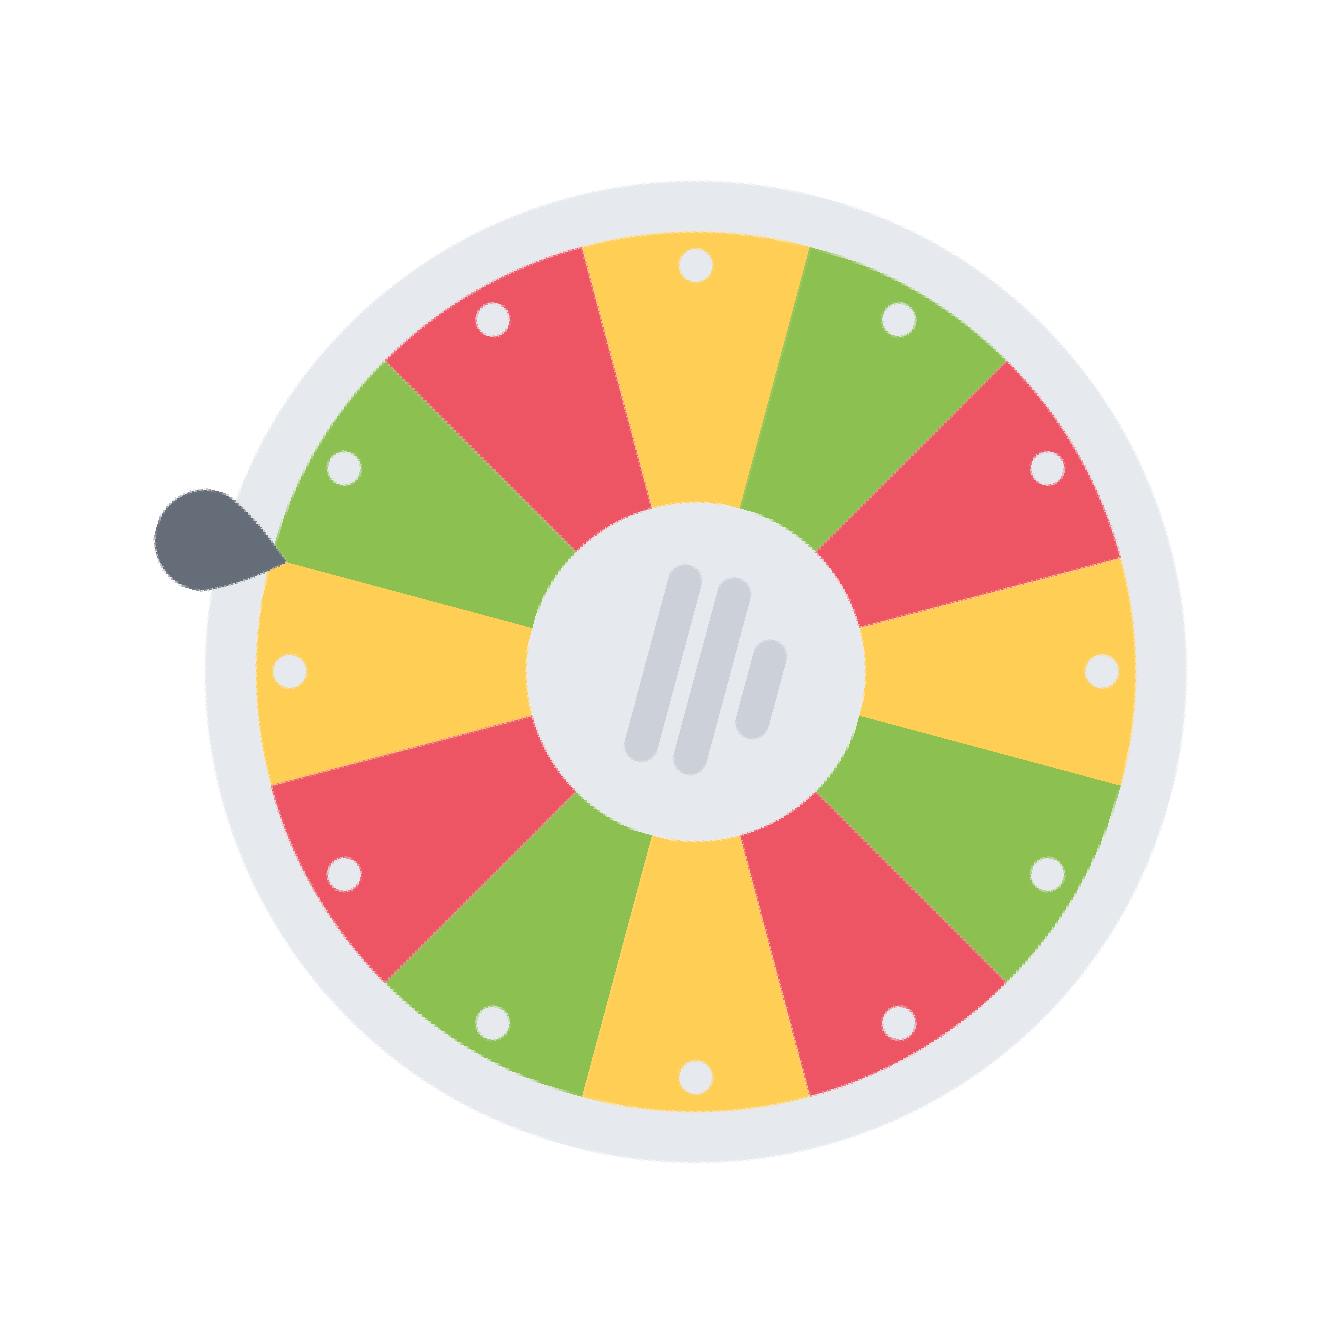
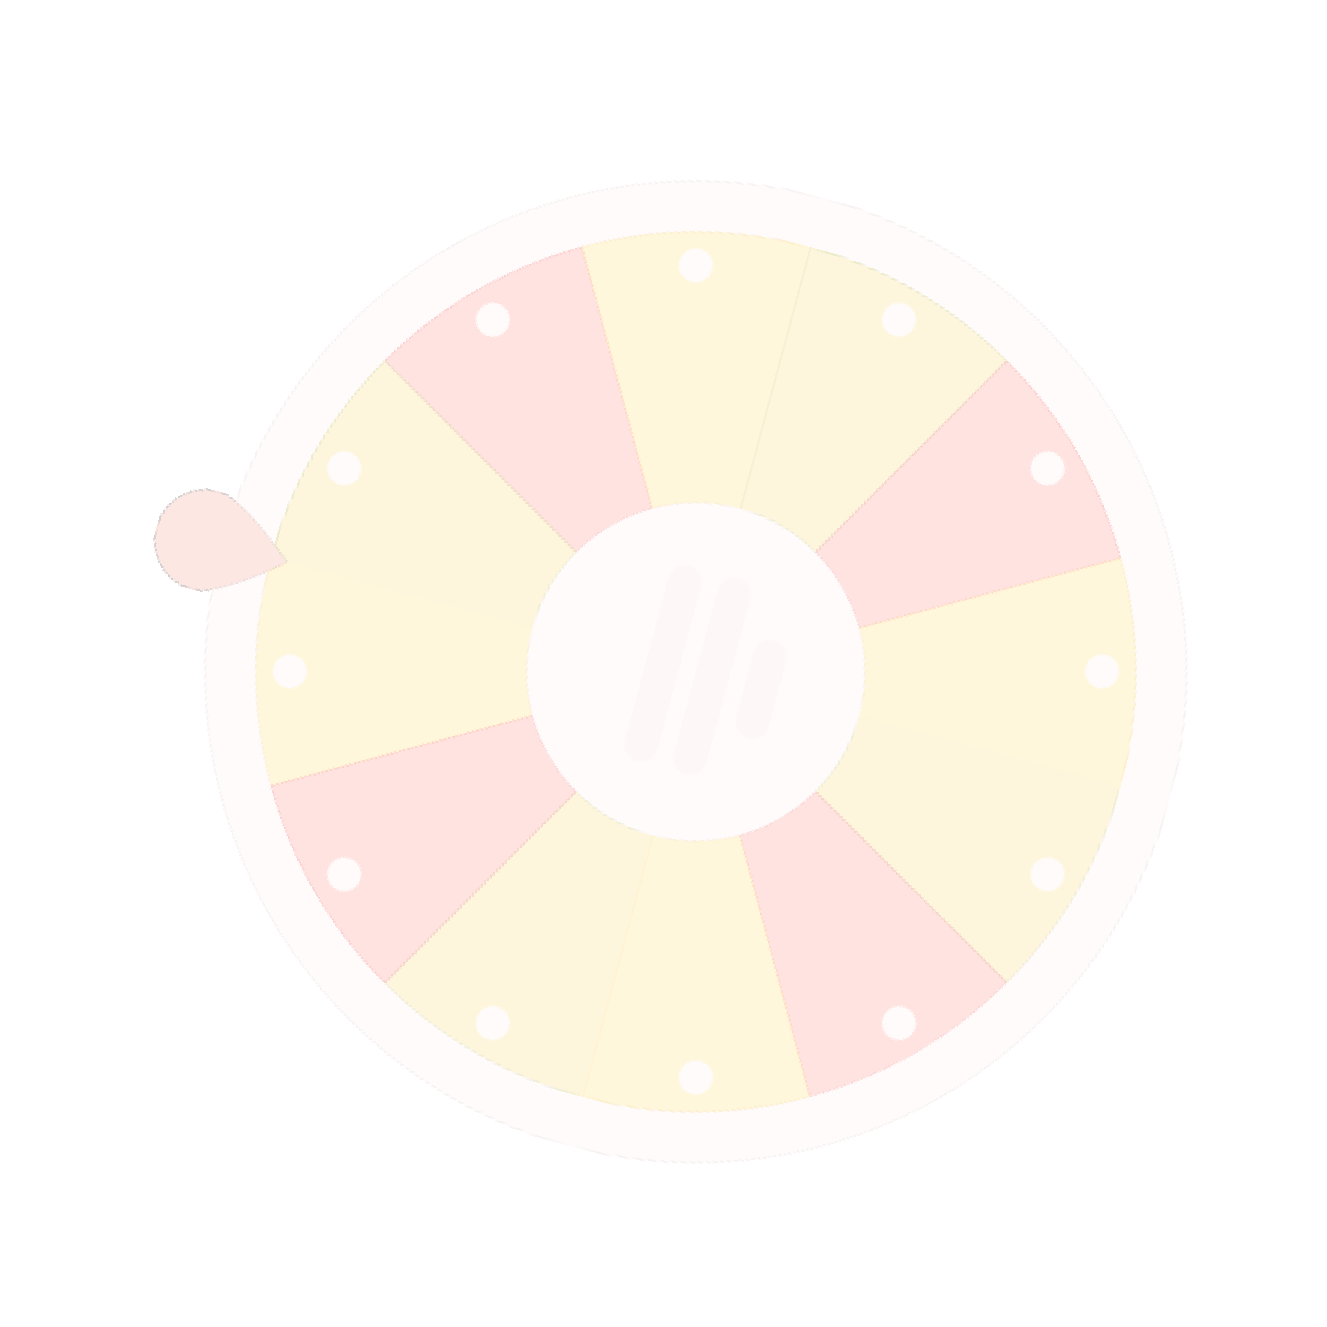
wheel

diff --git a/css/main.css b/css/main.css
@@ -1077,7 +1077,7 @@ p {
   text-align: center;
   align-items: center;
   z-index: 99999;
-  background-image: url("../img/wheel-of-fortune.svg");
+  background-image: url("../img/wheel-of-fortune.png");
   background-position: 145%;
   background-repeat: no-repeat;
 }
